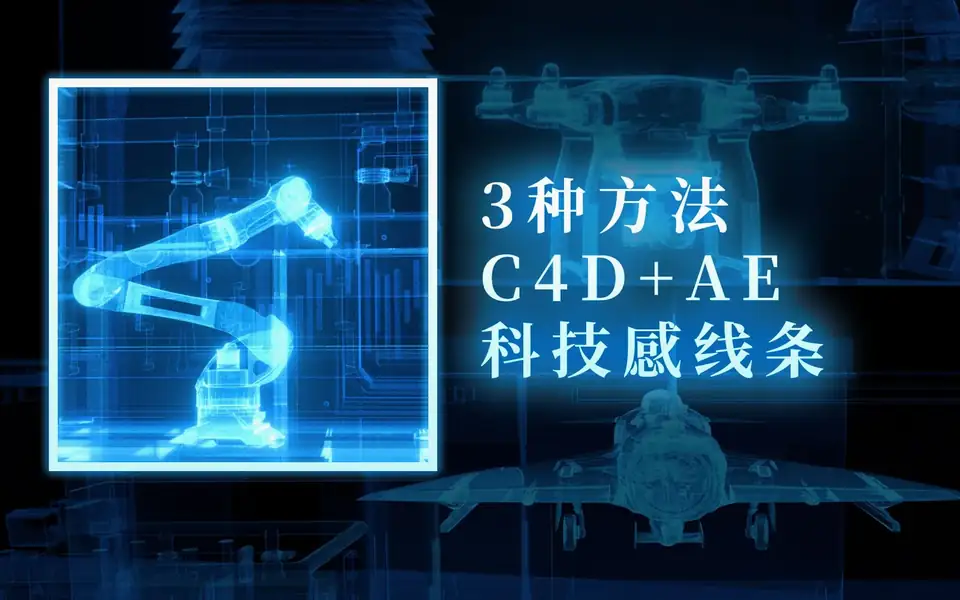
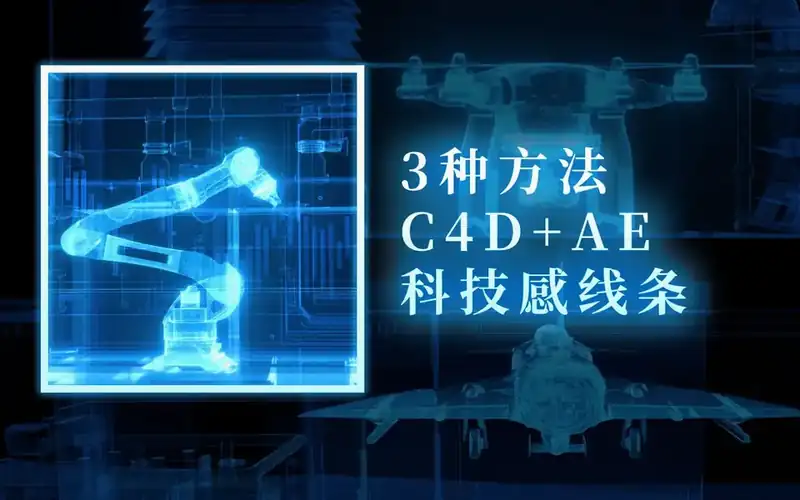
Restore and compress tutorial covers

diff --git a/index.html b/index.html
@@ -1520,6 +1520,9 @@
             const activeTabBtn = document.getElementById('tab-' + tabId);
             
             activeTabContent.classList.add('active');
+            // Hidden galleries have no intersection area. Observe again after the
+            // selected tab has entered layout so its deferred covers can load.
+            requestAnimationFrame(() => observeDeferredImages(activeTabContent));
             activeTabBtn.classList.add('active');
             activeTabBtn.setAttribute('aria-selected', 'true');
             
